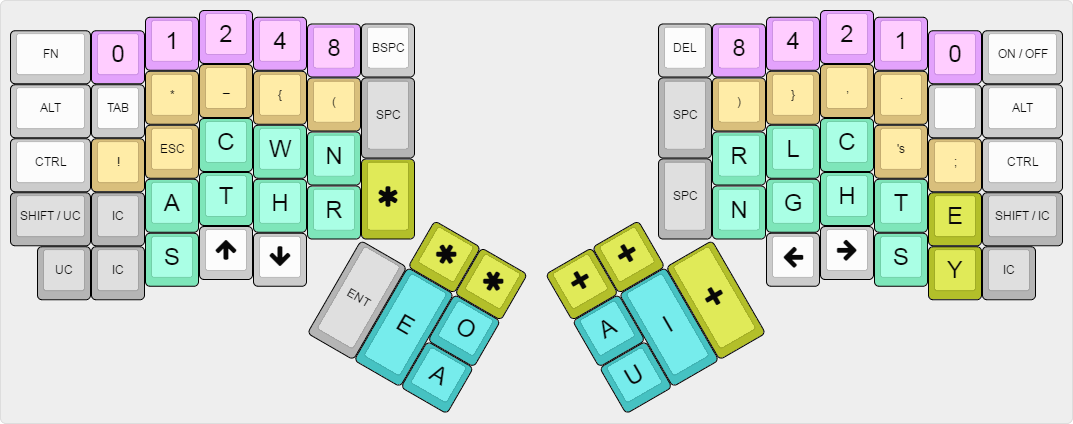
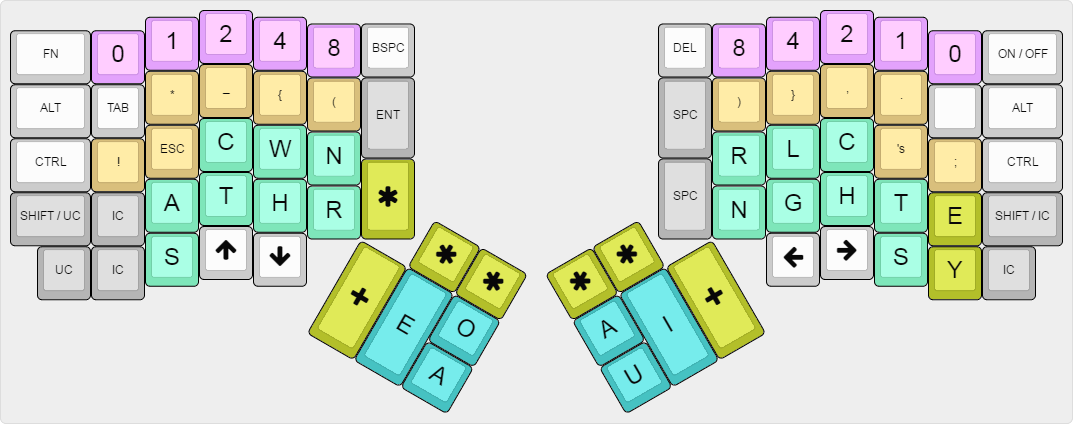
New layout test

diff --git a/keyboard/ergodox_ez/keymaps/fromtonrouge/keymap.c b/keyboard/ergodox_ez/keymaps/fromtonrouge/keymap.c
@@ -241,20 +241,20 @@ const uint32_t PROGMEM g_steno_keymap[2][MATRIX_ROWS][MATRIX_COLS] = {
 KEYMAP(
                 // Left hand
                 0,      NL_N0,      NL_B0,      NL_B1,      NL_B2,      NL_B3,        0,
-                0,      0,          USRL_2,     USRL_3,     USRL_4,     USRL_5,       S_SPC,
+                0,      0,          USRL_2,     USRL_3,     USRL_4,     USRL_5,       S_ENT,
                 0,      USRL_0,     USRL_1,     L_C,        L_W,        L_N,        
                 C_UC,   C_IC,       L_A,        L_T,        L_H,        L_R,          SC_STAR,
                 C_UC,   C_IC,       L_S,        0,          0,
                                                                                            SC_STAR, SC_STAR,
                                                                                                     T_O,
-                                                                                    S_ENT, T_E,     T_A,
+                                                                                  SC_PLUS, T_E,     T_A,
                 // Right hand
                             0,     NR_B3,      NR_B2,      NR_B1,      NR_B0,      NR_N0,      0,
                             S_SPC, USRR_5,     USRR_4,     USRR_3,     USRR_2,     0,          0,
                                    R_R,        R_L,        R_C,        USRR_1,     USRR_0,     0, 
                             S_SPC, R_N,        R_G,        R_H,        R_T,        RP_E,       C_IC,
                                                0,          0,          R_S,        RP_Y,       C_IC,
-                SC_PLUS,    SC_PLUS,
+                SC_STAR,    SC_STAR,
                 T_A,
                 T_U,        T_I,       SC_PLUS 
 ),
